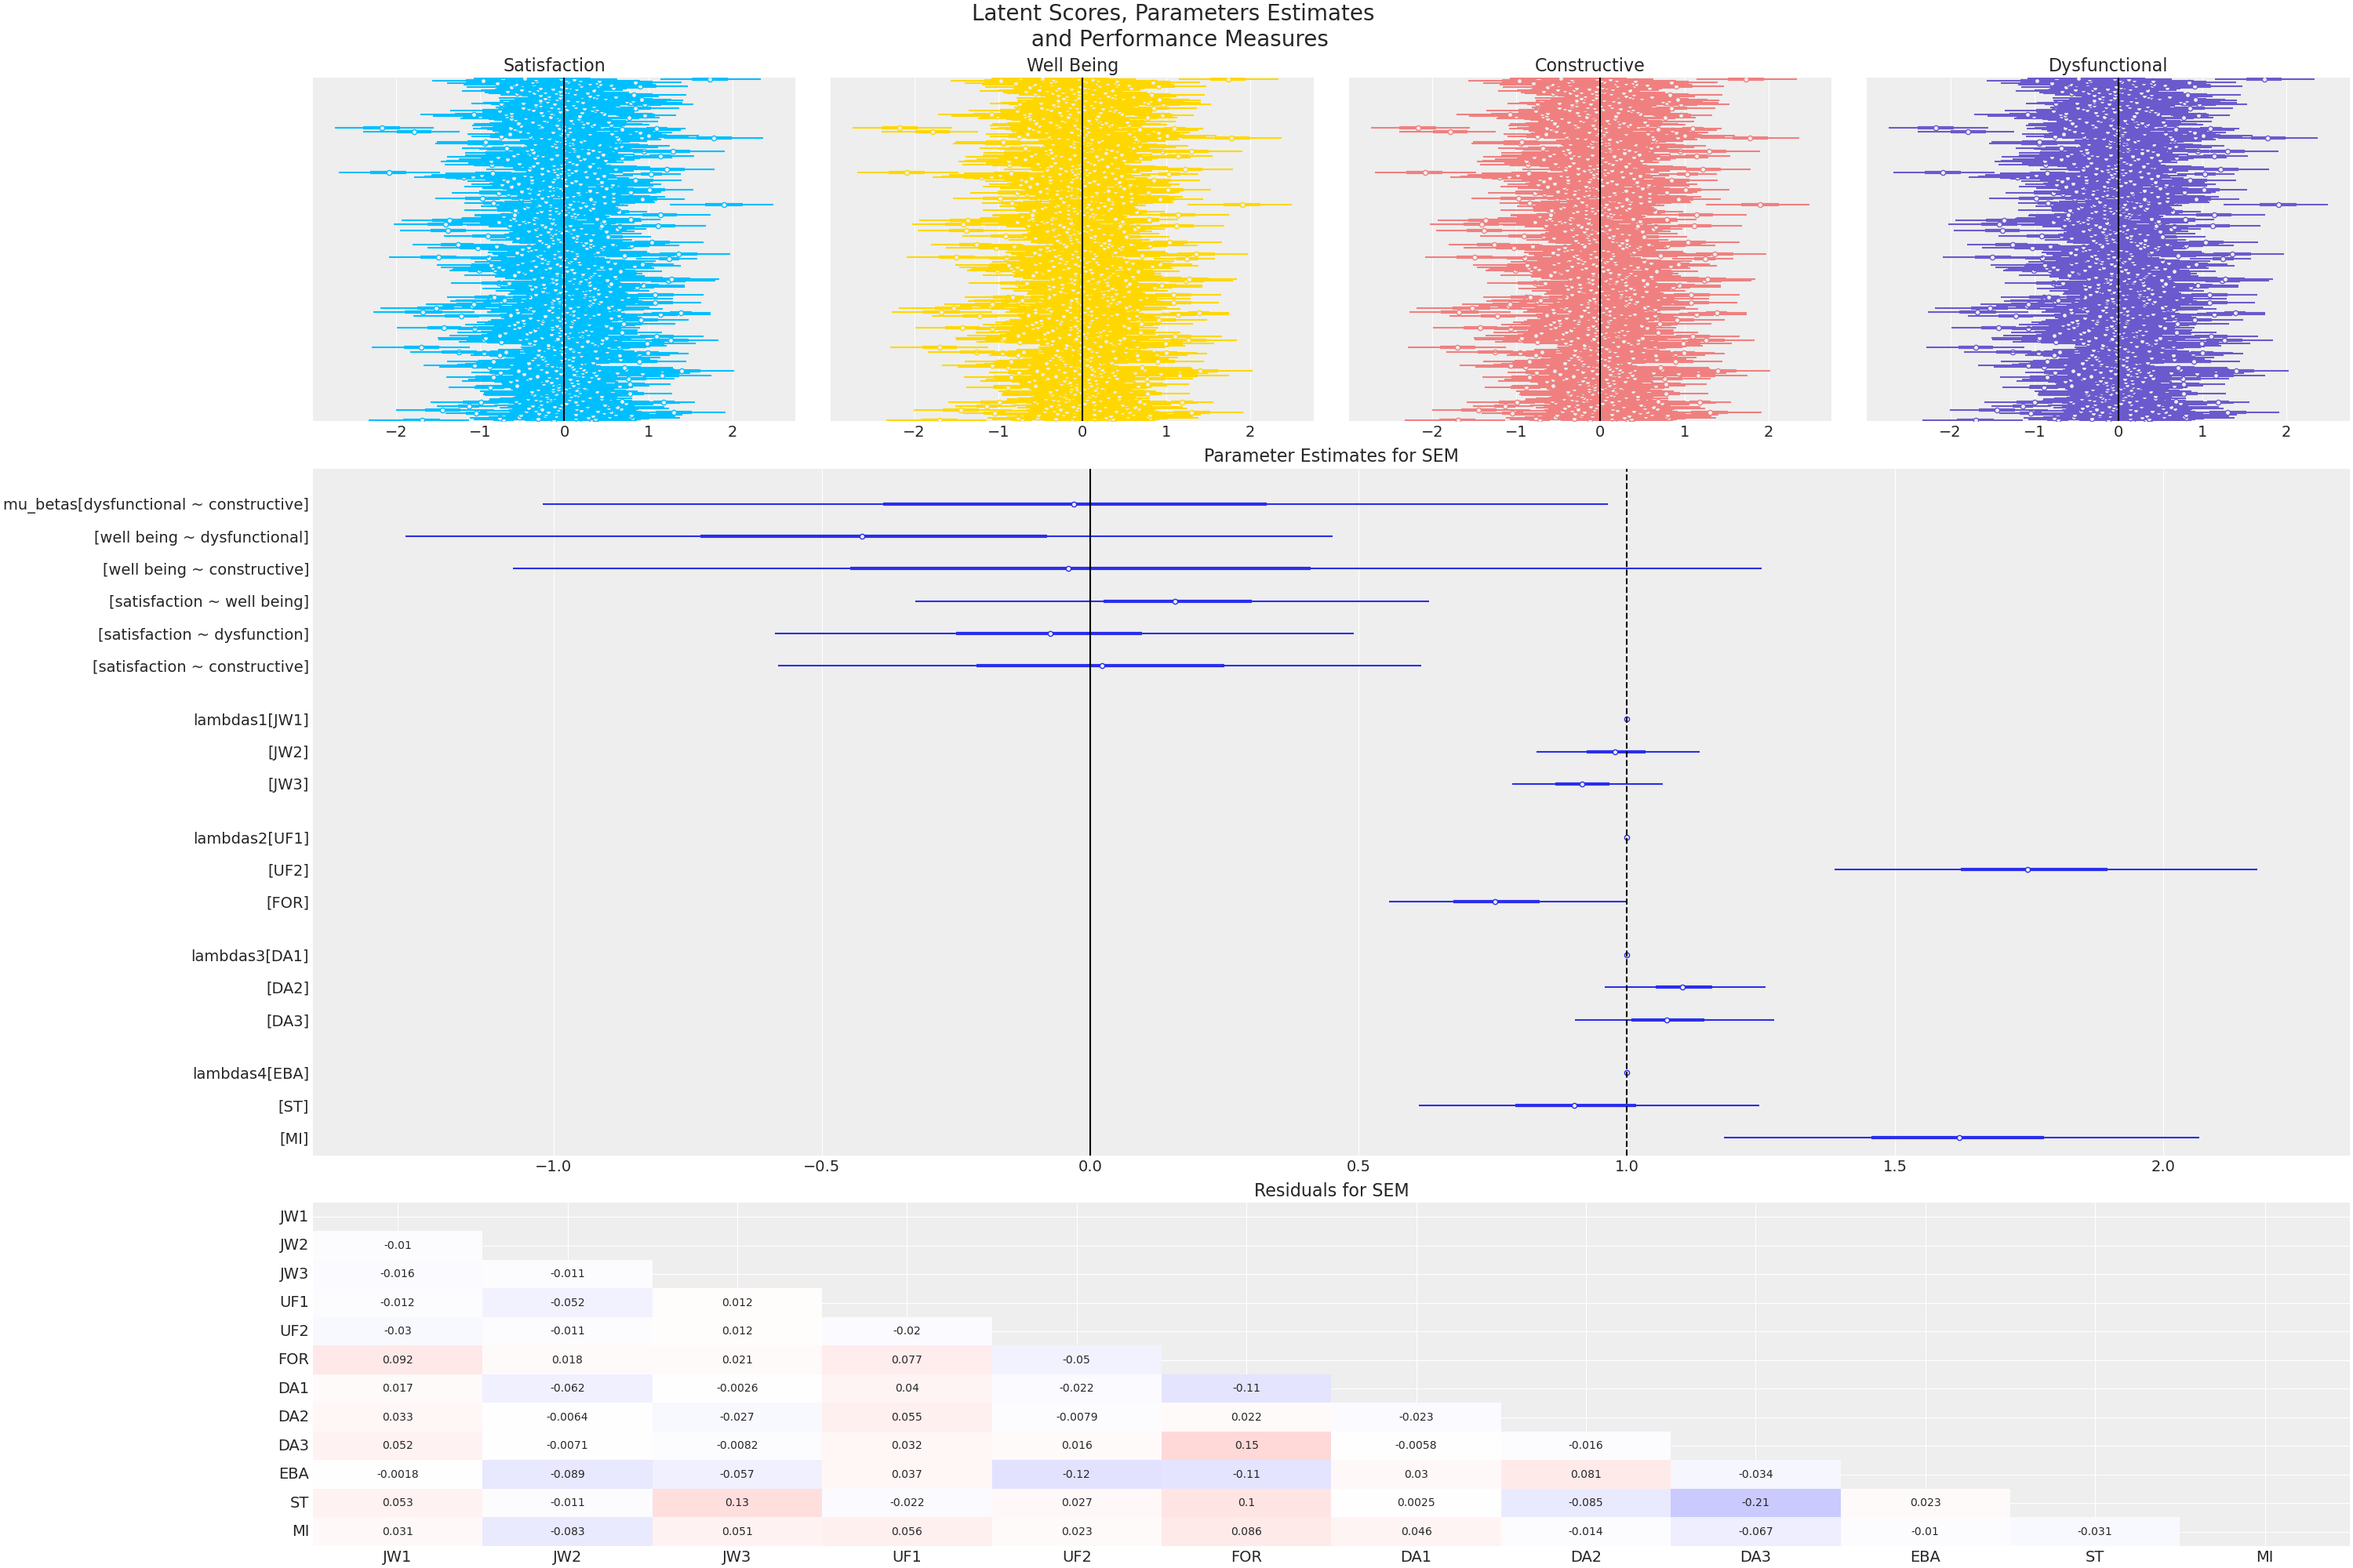
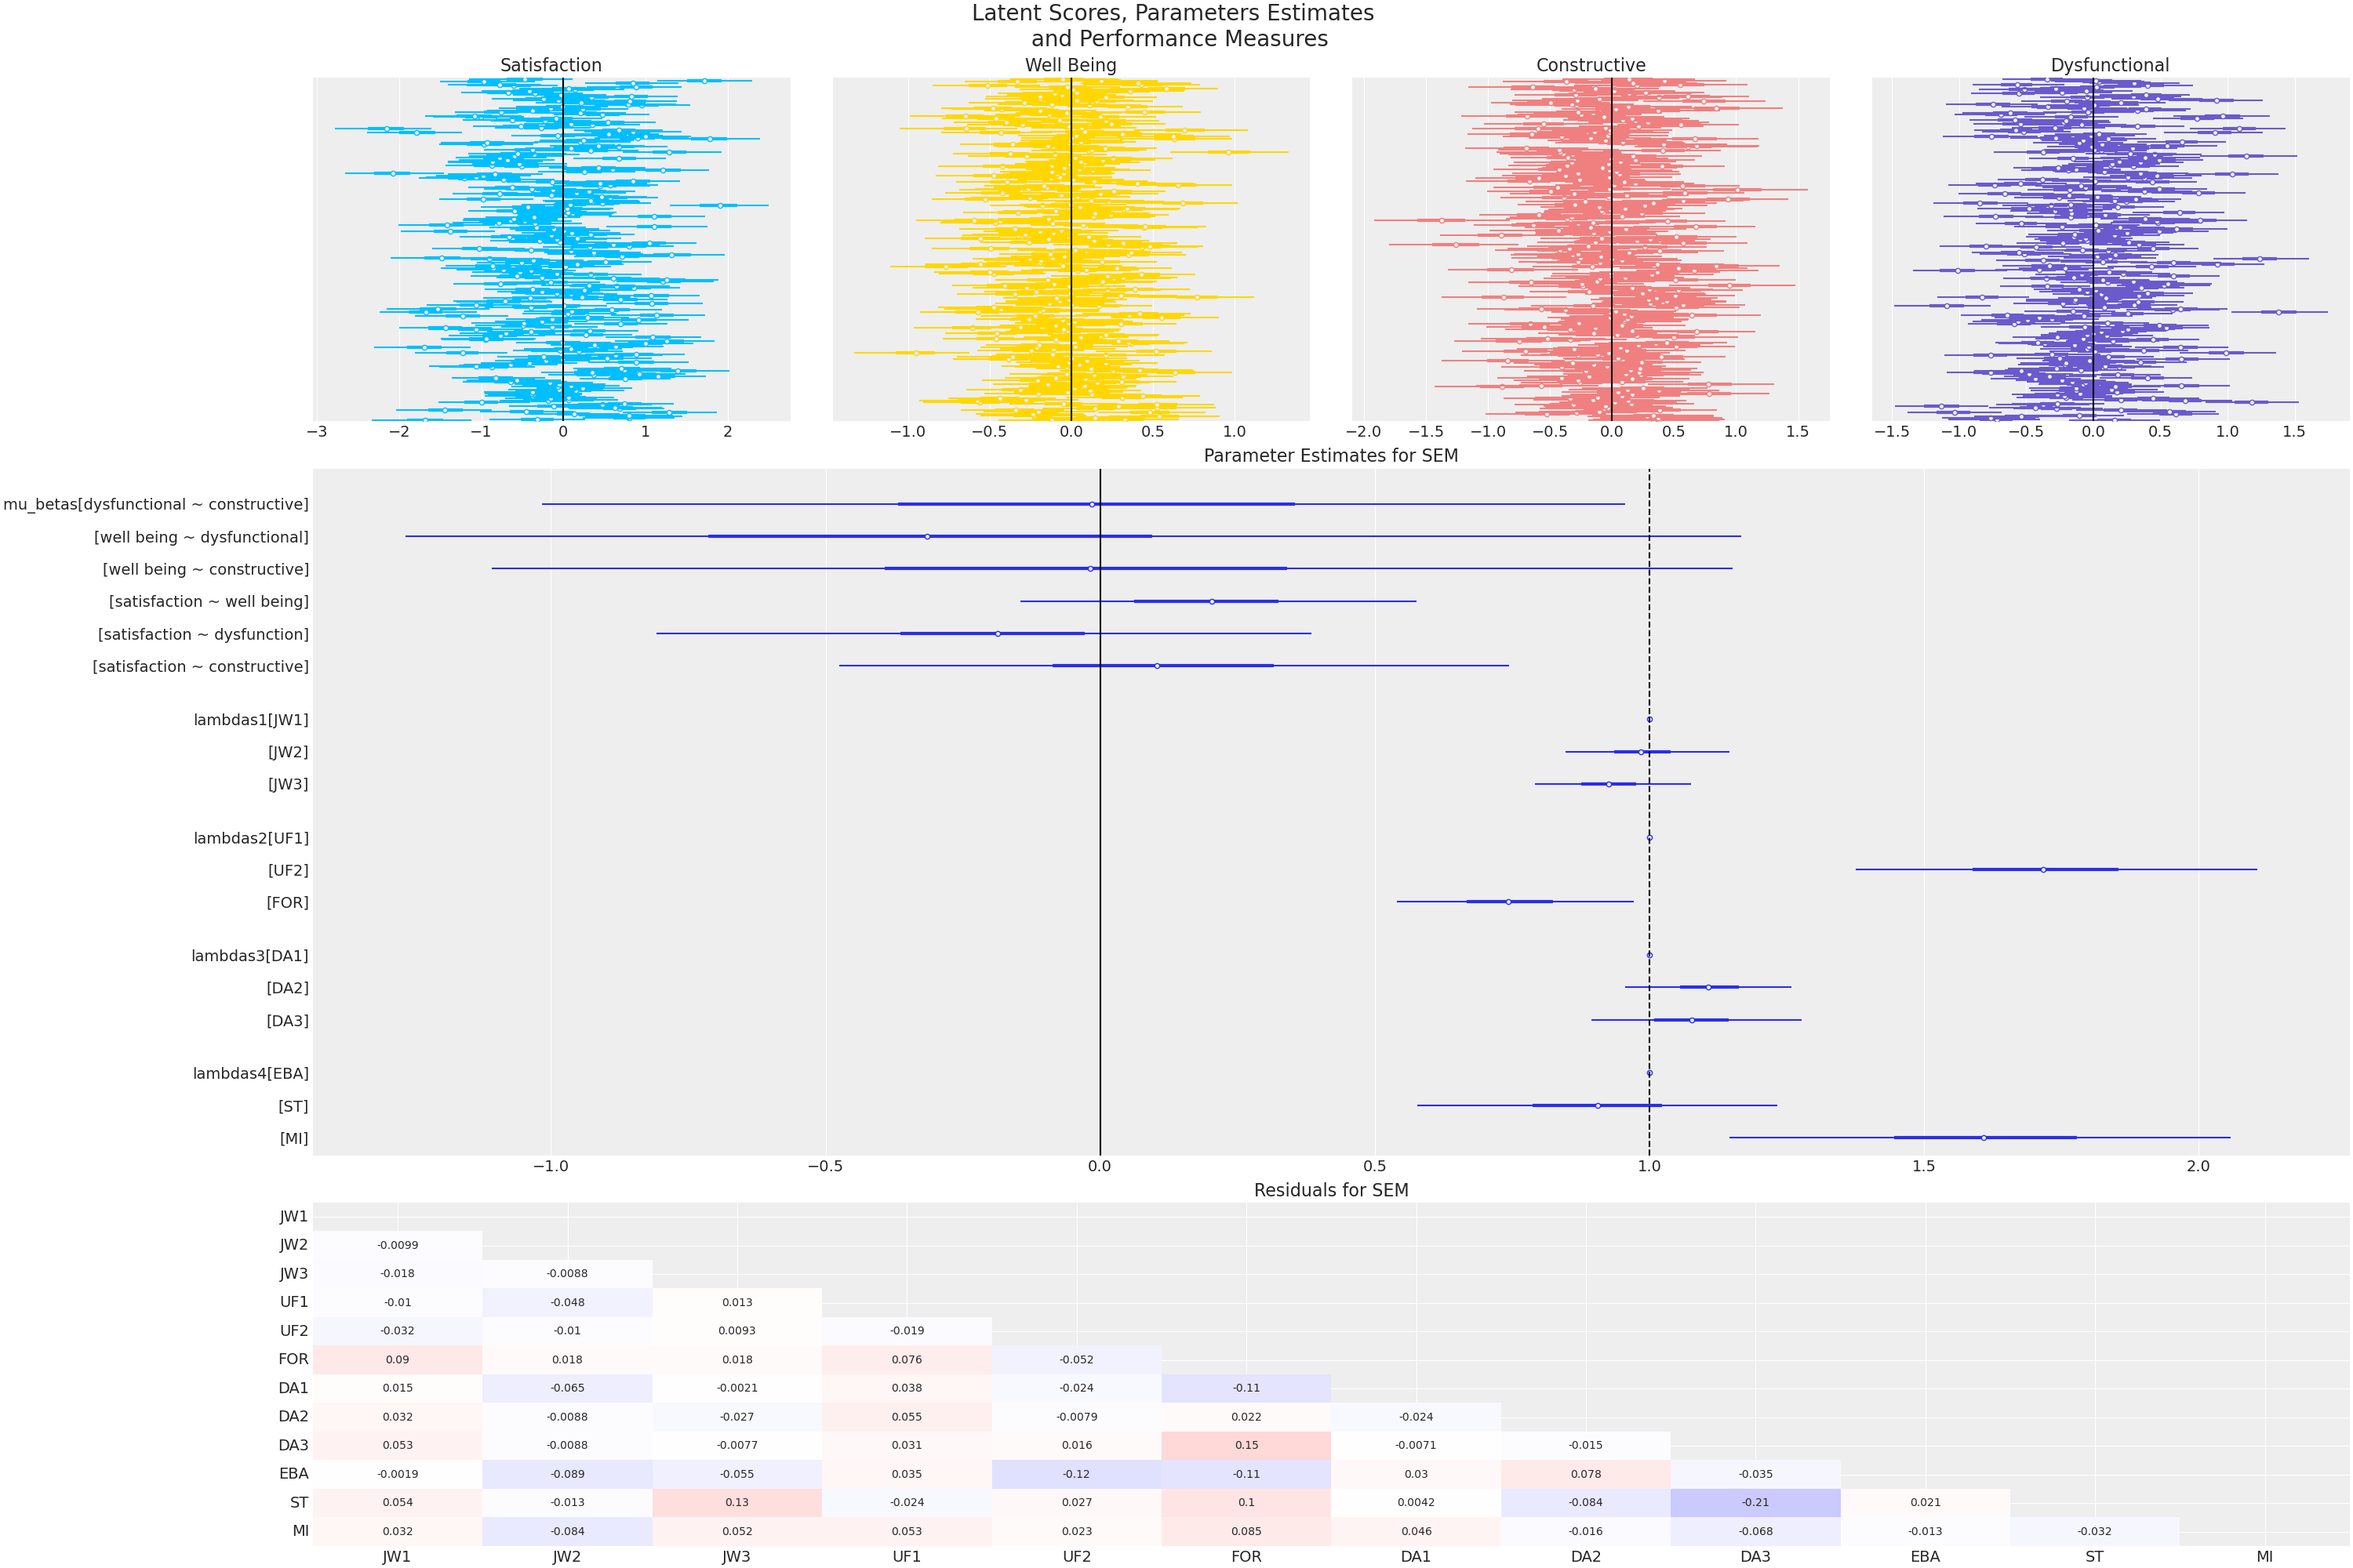
update slides

diff --git a/docs/talks/pycon_ireland_2025/bayesian_workflow_sem.html b/docs/talks/pycon_ireland_2025/bayesian_workflow_sem.html
@@ -469,11 +469,22 @@ Nathaniel Forde
 <p><span class="math display">\[ \eta \sim MvN(0, \Sigma)\]</span> <span class="math display">\[ \mu = \color{blue}{\Lambda} \eta\]</span> <span class="math display">\[\mathbf{x} = N(\mu, \Psi)\]</span></p>
 </div></div>
 </section>
-<section id="bayesian-workflow-with-sems-1" class="slide level2">
+<section id="bayesian-workflow-with-sems-1" class="slide level2 smaller">
 <h2>Bayesian Workflow with SEMs</h2>
 <h3 id="cfa-implications">CFA Implications</h3>
-
-<img data-src="images/cfa_model_summary.png" style="width:70.0%" class="r-stretch"></section>
+<div class="columns">
+<div class="column" style="width:70%;">
+<p><img src="images/cfa_model_summary.png" width="90%" height="90%"></p>
+</div><div class="column" style="width:30%;">
+<ul>
+<li>Estimated Factor Loadings are close to 1</li>
+<li>The indicator(s) are strongly reflective of the latent factor.</li>
+<li>Posterior Predictive Residuals are close to 0</li>
+<li>Latent factors move together in intuitive ways.</li>
+<li>High Satisfaction ~~ High Well Being</li>
+</ul>
+</div></div>
+</section>
 <section id="bayesian-workflow-with-sems-2" class="slide level2">
 <h2>Bayesian Workflow with SEMs</h2>
 <h3 id="sem">SEM</h3>
@@ -513,14 +524,19 @@ Nathaniel Forde
 <p><span class="math display">\[\zeta \sim MvN(0, \Sigma_{\zeta})\]</span> <span class="math display">\[\eta = (I-\color{blue}{B})^{-1} \zeta\]</span> <span class="math display">\[\mu = \Lambda \eta_i\]</span> <span class="math display">\[ \mathbf{x} \mid \eta \sim MvN(\mu, \Psi)\]</span></p>
 </div></div>
 </section>
-<section id="bayesian-workflow-with-sems-3" class="slide level2">
+<section id="bayesian-workflow-with-sems-3" class="slide level2 smaller">
 <h2>Bayesian Workflow with SEMs</h2>
 <h3 id="sem-implications">SEM Implications</h3>
 <div class="columns">
 <div class="column" style="width:70%;">
 <p><img data-src="images/sem_model_summary.png"></p>
-</div><div class="column">
-
+</div><div class="column" style="width:30%;">
+<ul>
+<li>The Beta coefficients encode the directional effects of the latent constructs on one another</li>
+<li>High Dysfunction -&gt; Negative Impact on Satisfaction</li>
+<li>Factor loadings remain close to 1</li>
+<li>Posterior Predictive of the Residuals have Improved</li>
+</ul>
 </div></div>
 </section>
 <section id="bayesian-workflow-with-sems-4" class="slide level2">
@@ -565,35 +581,48 @@ Nathaniel Forde
 <span id="cb3-35"><a></a>  _ <span class="op">=</span> pm.MvNormal(<span class="st">"likelihood"</span>, mu<span class="op">=</span>mu_y, cov<span class="op">=</span>Sigma_y, observed<span class="op">=</span>observed_data)</span>
 <span id="cb3-36"><a></a></span></code><button title="Copy to Clipboard" class="code-copy-button"><i class="bi"></i></button></pre></div>
 </div><div class="column" style="width:30%;">
-<p><span class="math display">\[\Sigma_{\mathcal{x}} = \Psi + \\ \Lambda(I - B)^{-1}\Psi_{\gamma}(I - B)^{T}\Lambda^{T} \]</span></p>
+<p><span class="math display">\[\color{blue}{\Sigma_{\mathcal{x}}} = \Psi + \\ \Lambda(I - B)^{-1}\Psi_{\gamma}(I - B)^{T}\Lambda^{T} \]</span></p>
 <p><span class="math display">\[ \mathcal{x} \sim MvN(\tau, \Sigma_{x})\]</span></p>
 </div></div>
 </section>
-<section id="bayesian-workflow-with-sems-5" class="slide level2">
+<section id="bayesian-workflow-with-sems-5" class="slide level2 smaller">
 <h2>Bayesian Workflow with SEMs</h2>
-<h3 id="sem-implications-1">SEM Implications</h3>
+<h3 id="mean-structure-implications">Mean Structure Implications</h3>
 <div class="columns">
 <div class="column" style="width:70%;">
 <p><img data-src="images/sem_model_marginal_summary.png"></p>
 </div><div class="column" style="width:30%;">
-
+<ul>
+<li>Mean Structure Parameters <span class="math inline">\(\tau\)</span> show poor identification</li>
+<li>Beta coefficients and Factor Loading Estimates consistent with prior models</li>
+<li>Posterior Predictive check on Residuals provide evidence of a good fit.</li>
+</ul>
 </div></div>
 </section>
-<section id="bayesian-workflow-with-sems-6" class="slide level2">
+<section id="bayesian-workflow-with-sems-6" class="slide level2 smaller">
 <h2>Bayesian Workflow with SEMs</h2>
 <h3 id="comparing-model-estimates">Comparing Model Estimates</h3>
 <div class="columns">
 <div class="column" style="width:70%;">
 <p><img data-src="images/compare_model_parameters.png"></p>
-</div><div class="column">
-
+</div><div class="column" style="width:30%;">
+<ul>
+<li>The measurement model is stable: adding the structural paths did not disrupt how the latent variables are measured.</li>
+<li>SEM is not introducing distortions into the factor structure.</li>
+<li>The hypothesized regression paths are consistent with the observed covariance patterns.</li>
+</ul>
 </div></div>
+</section>
+<section id="bayesian-workflow-with-sems-7" class="slide level2">
+<h2>Bayesian Workflow with SEMs</h2>
+<h3 id="comparing-measures-of-global-fit">Comparing Measures of Global Fit</h3>
 
 
-</section></section>
+
+<img data-src="images/comparison_table.png" class="r-stretch"></section></section>
     </div>
   <div class="quarto-auto-generated-content" style="display: none;">
-<p><img src="images/pycon_ireland.jpeg" class="slide-logo"></p>
+<p><img src="images/dublinSkyline.png" class="slide-logo"></p>
 <div class="footer footer-default">
 <p>Bayesian Workflow for SEMs with PyMC</p>
 </div>

diff --git a/docs/talks.html b/docs/talks.html
@@ -251,7 +251,7 @@ window.Quarto = {
 </a>
 </div>
 </div>
-<div class="quarto-post image-right" data-index="1" data-categories="YmF5ZXNpYW4lMkNkaXNjcmV0ZSUyMGNob2ljZQ==" data-listing-date-sort="1763251200000" data-listing-file-modified-sort="1758700578112" data-listing-date-modified-sort="NaN" data-listing-reading-time-sort="7" data-listing-word-count-sort="1216">
+<div class="quarto-post image-right" data-index="1" data-categories="YmF5ZXNpYW4lMkNkaXNjcmV0ZSUyMGNob2ljZQ==" data-listing-date-sort="1763251200000" data-listing-file-modified-sort="1758748892372" data-listing-date-modified-sort="NaN" data-listing-reading-time-sort="7" data-listing-word-count-sort="1379">
 <div class="thumbnail">
 <p><a href="./talks/pycon_ireland_2025/bayesian_workflow_sem.html" class="no-external"></a></p><a href="./talks/pycon_ireland_2025/bayesian_workflow_sem.html" class="no-external">
 <p><img loading="lazy" src="./talks/pycon_ireland_2025/images/dublinSkyline.png" class="thumbnail-image"></p>
